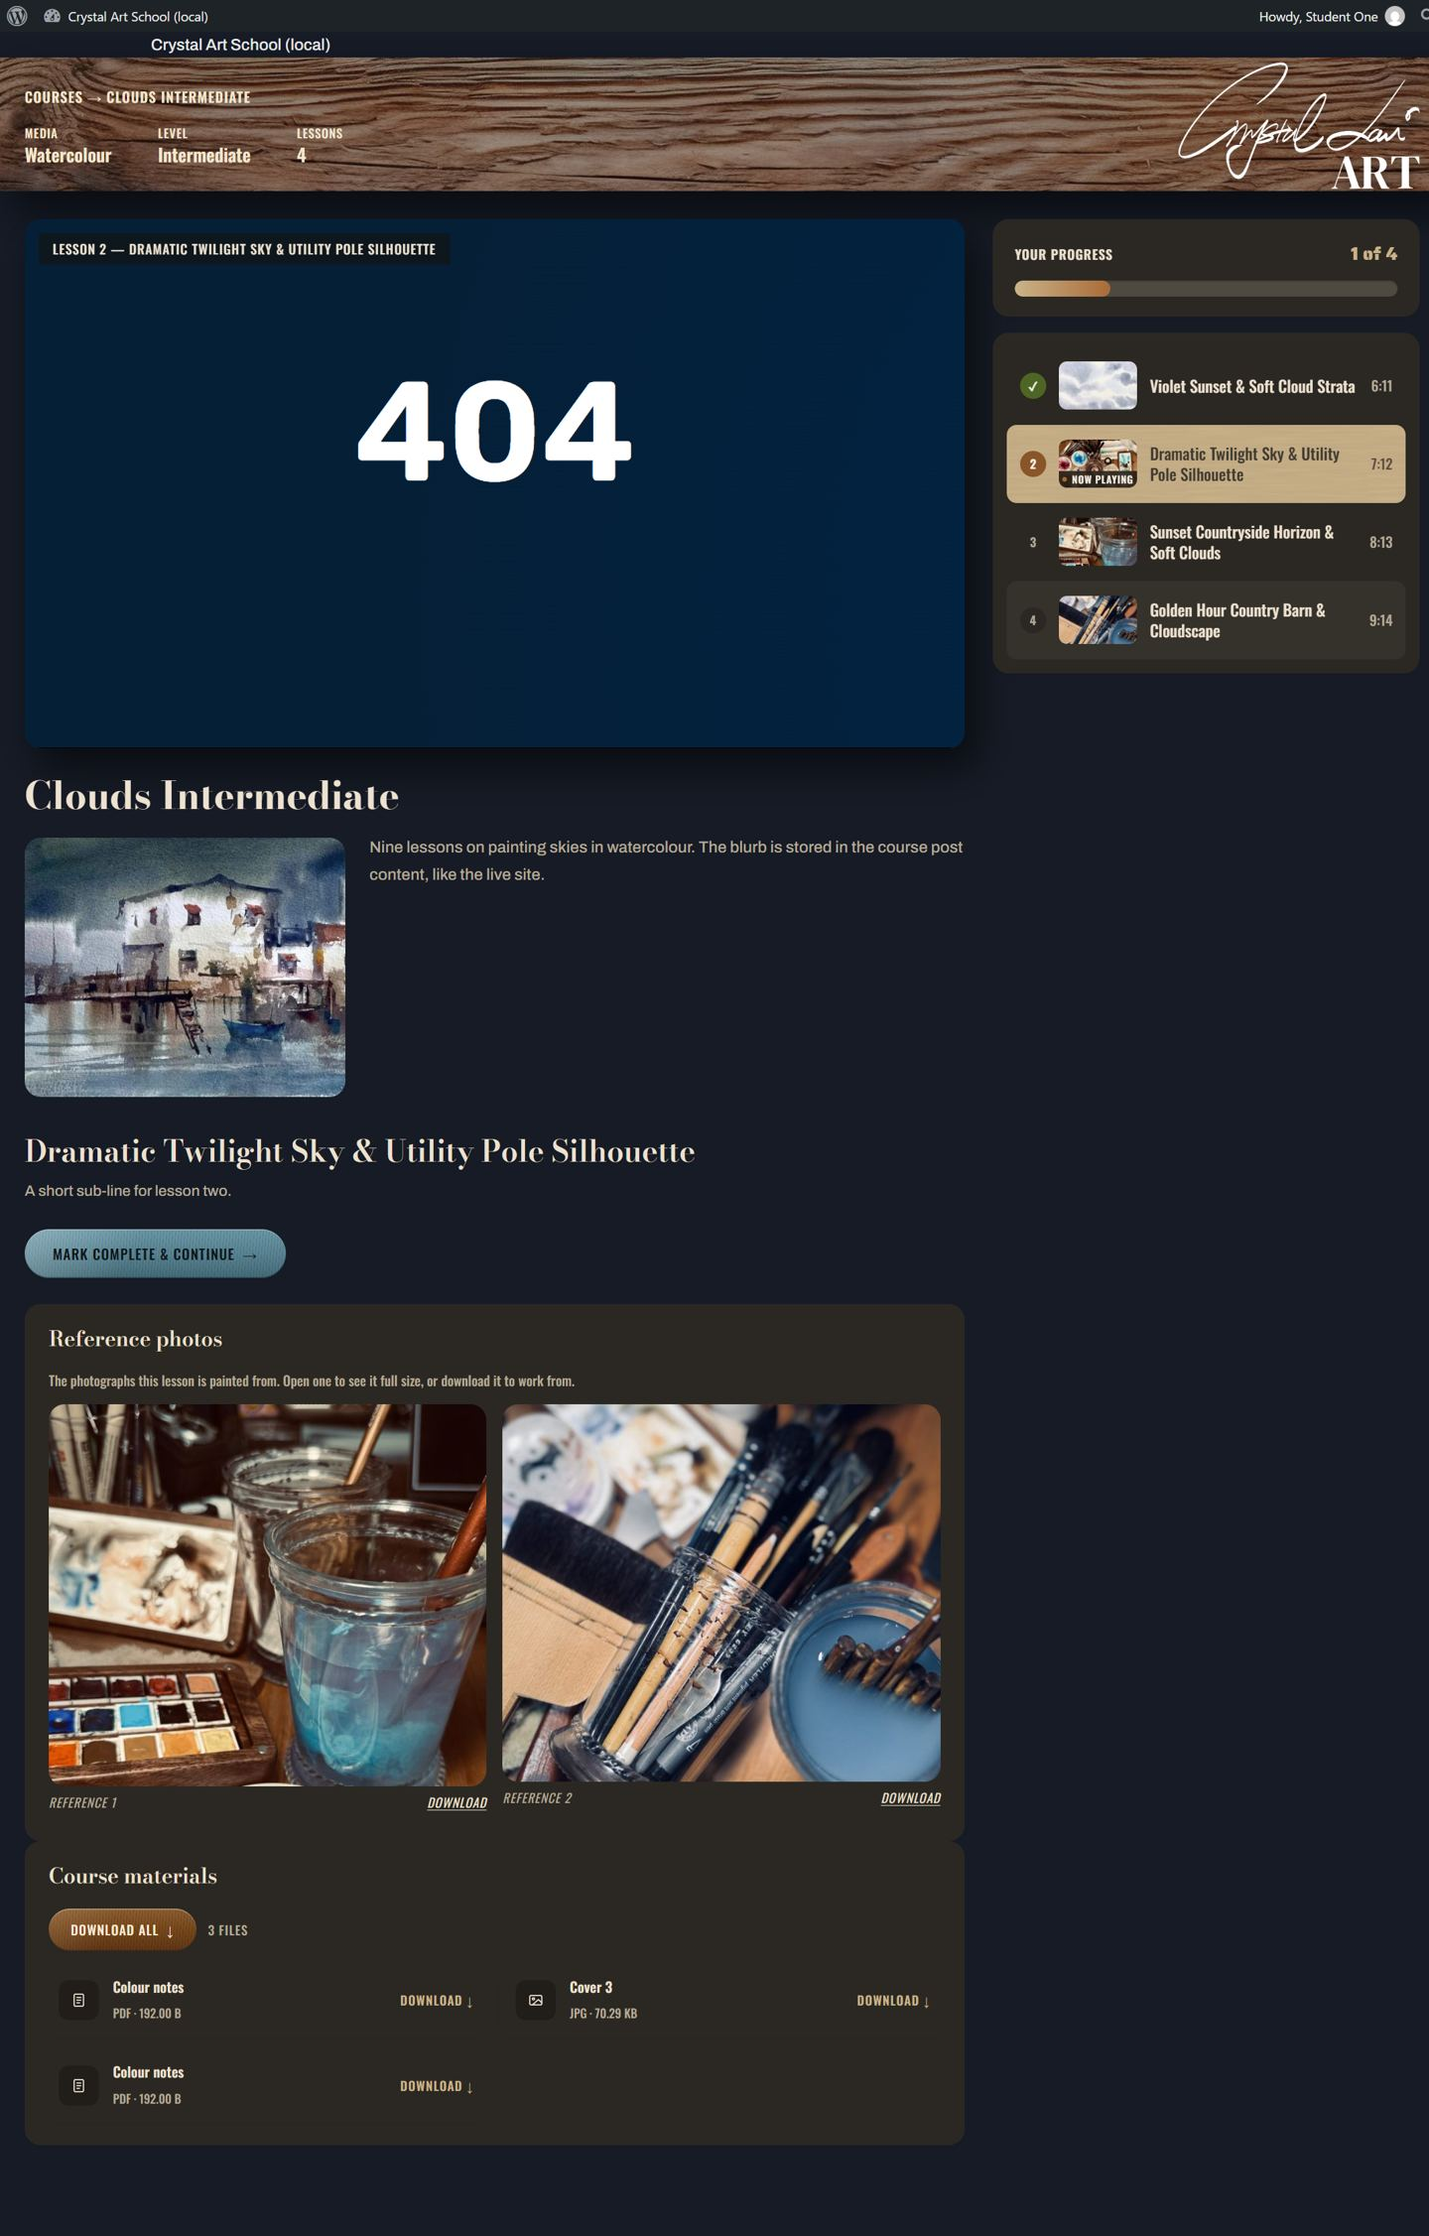
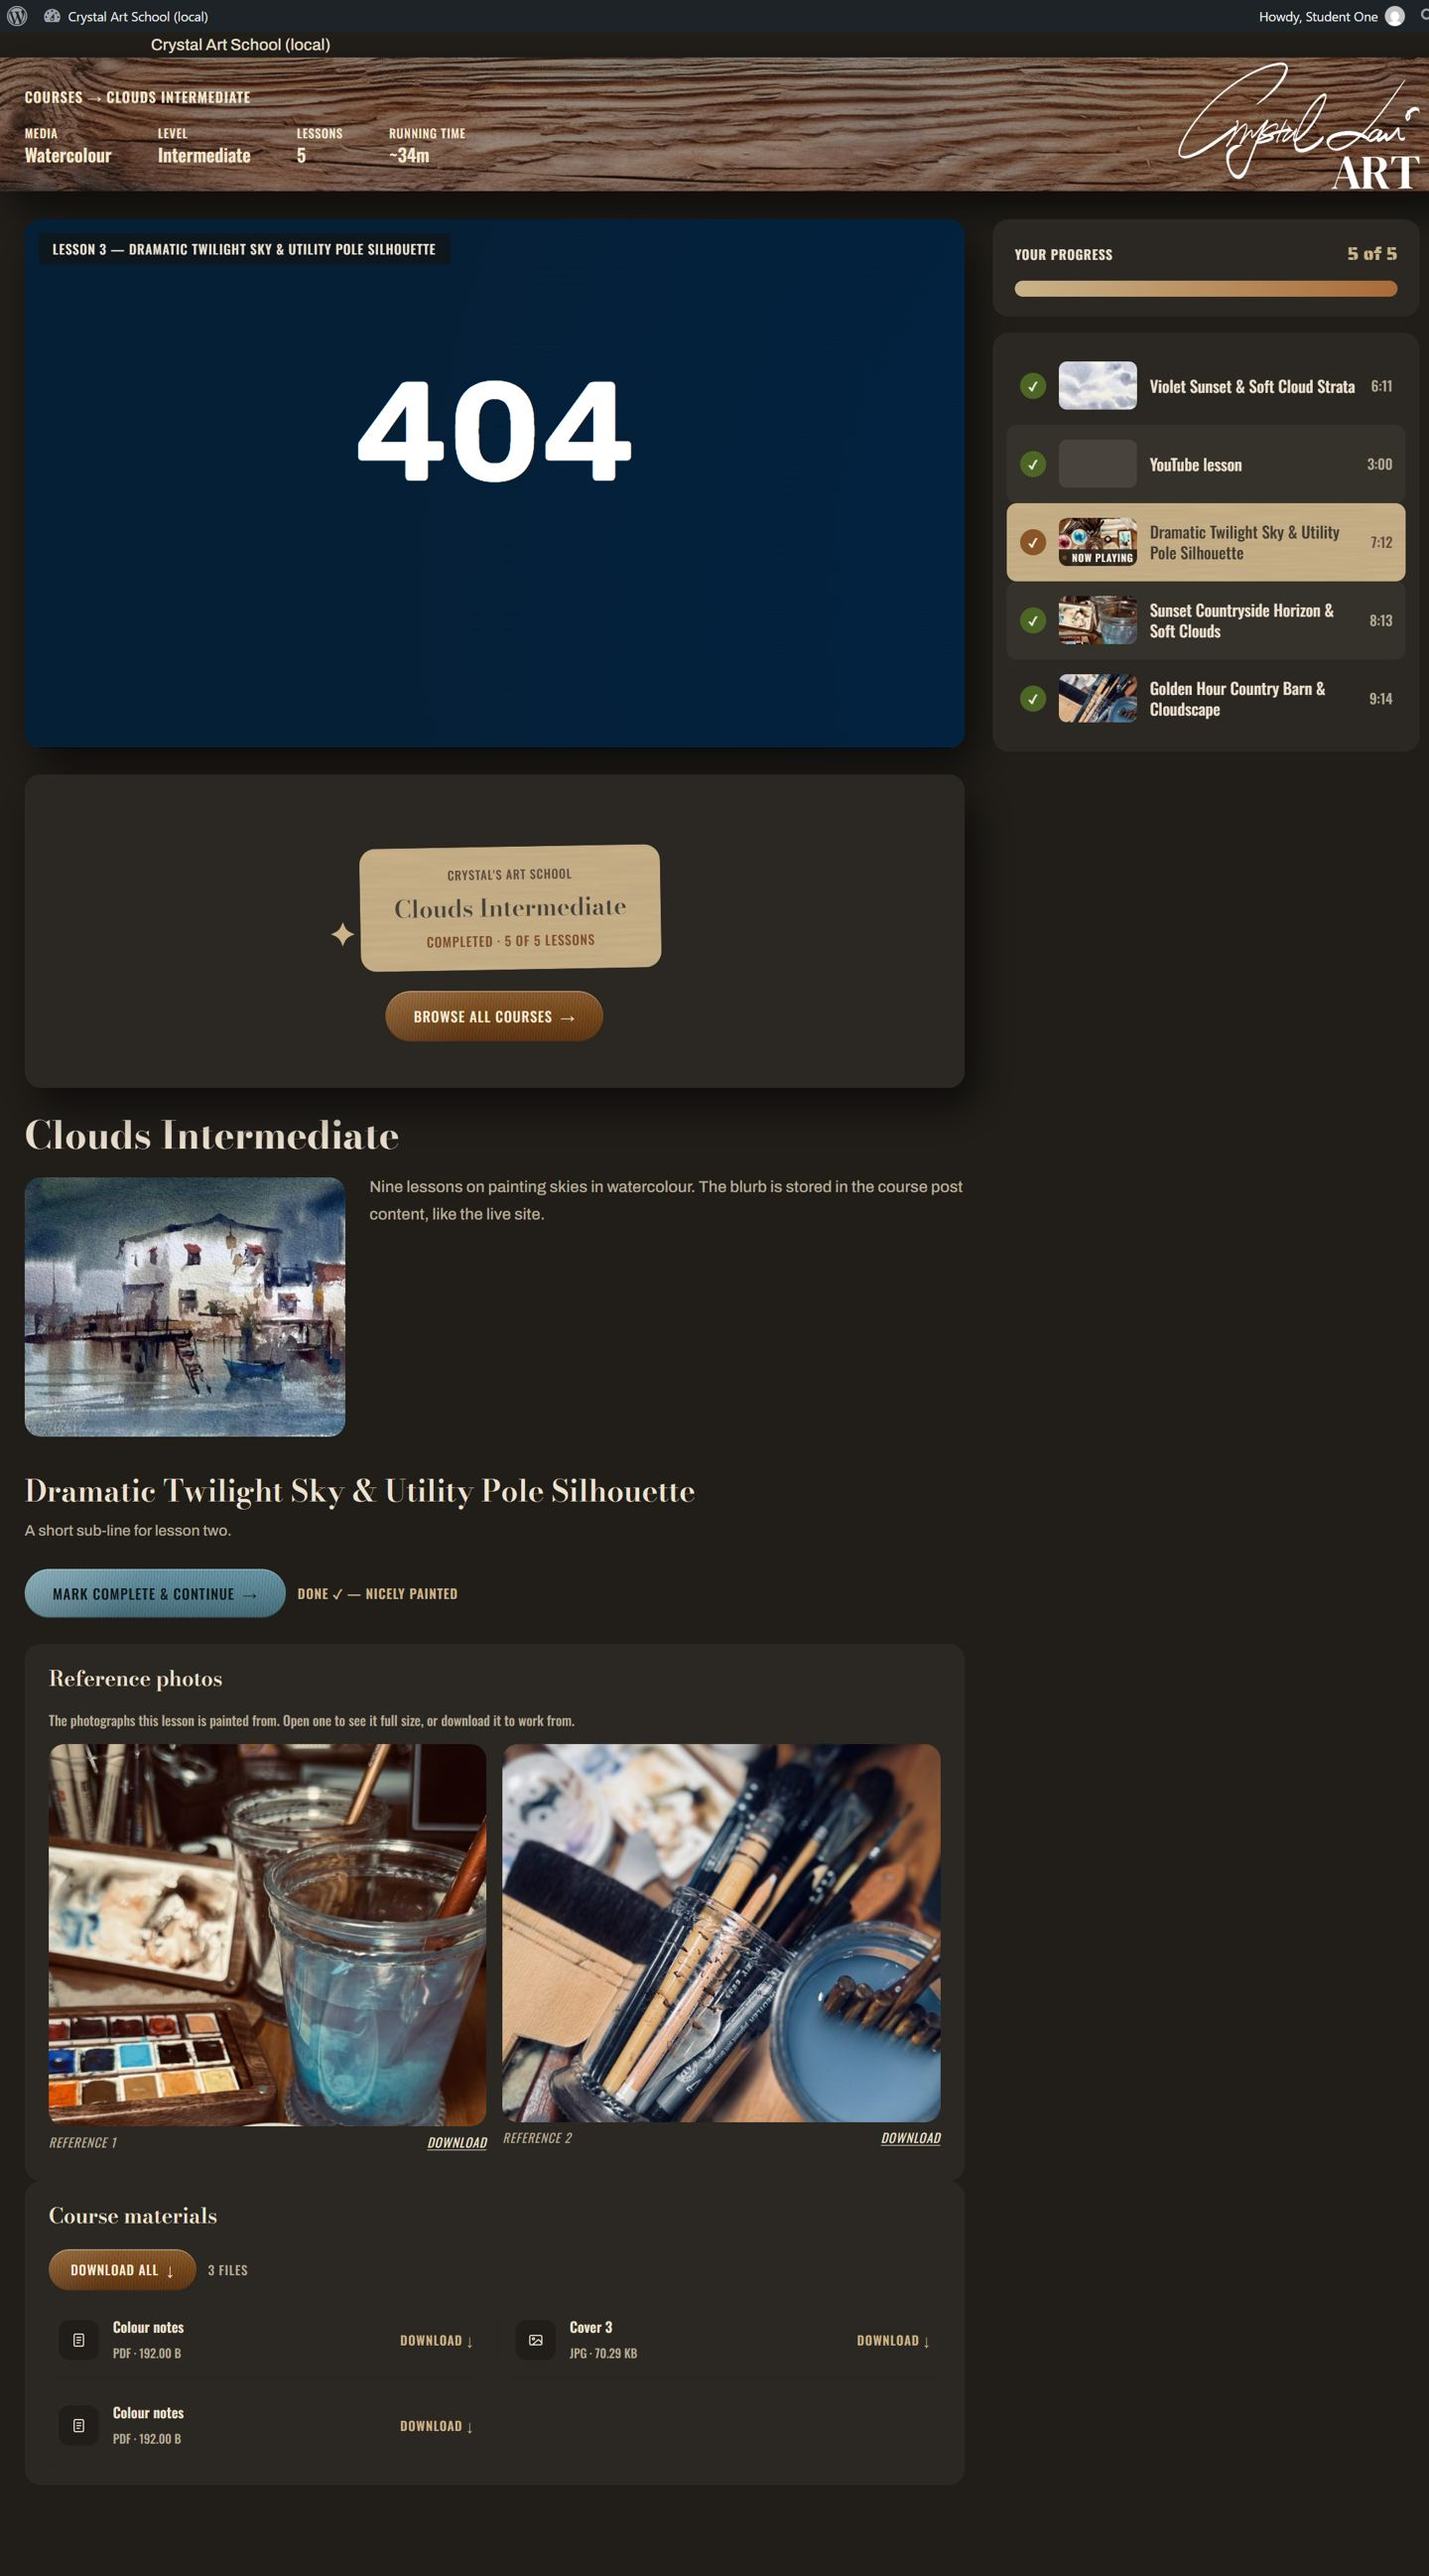
fix(lesson): keep Tutor's dark shell off the page, sum the running time, hide an empty materials card (#122)
- Tutor's core stylesheet sets the body ground to a navy surface colour for every
  learning-area request. On the lesson route Tutor's core and learning-area assets
  are now dequeued, so the site's warm charcoal shows.
- Running time is the sum of the lesson runtimes the outline already shows.
- The Course materials card is hidden when there are no attachments, instead of
  printing an owner-facing placeholder sentence.
- The film iframe drops allowfullscreen (allow="fullscreen" already covers it).

diff --git a/wp-content/themes/hello-elementor-child/inc/cas-lesson.php b/wp-content/themes/hello-elementor-child/inc/cas-lesson.php
@@ -120,6 +120,33 @@ add_filter(
 );
 
 /**
+ * A running time the way the prototype's runtimeStr() writes it: "1h 8m", "1h", "45m".
+ *
+ * The total is the sum of the lesson runtimes the phase list already shows, so the two
+ * cannot disagree. A course whose lessons carry no runtime has no running time to show.
+ *
+ * @param int $seconds Total in seconds.
+ *
+ * @return string
+ */
+function cas_lesson_total_runtime( $seconds ) {
+	$seconds = (int) $seconds;
+
+	if ( $seconds <= 0 ) {
+		return '';
+	}
+
+	$h = (int) floor( $seconds / 3600 );
+	$m = (int) round( ( $seconds % 3600 ) / 60 );
+
+	if ( $h ) {
+		return $m ? $h . 'h ' . $m . 'm' : $h . 'h';
+	}
+
+	return $m . 'm';
+}
+
+/**
  * Print one lesson row's length as m:ss, the way the prototype's fmt0() does.
  *
  * @param int $seconds Length in seconds.
@@ -368,7 +395,7 @@ function cas_render_lesson() {
 	$tag     = ( ! is_wp_error( $cats ) && $cats ) ? $cats[0] : '';
 	$level   = (string) get_post_meta( $course_id, '_tutor_course_level', true );
 	$level   = $level ? ucfirst( str_replace( '-', ' ', $level ) ) : '';
-	$runtime = cas_course_runtime( $course_id );
+	$runtime = cas_lesson_total_runtime( array_sum( array_column( $items, 'seconds' ) ) );
 	$blurb   = trim( (string) get_post_field( 'post_content', $course_id ) );
 	$photos  = cas_course_photos( $course_id );
 	$thumb   = $current ? $current['thumb'] : 0;
@@ -426,7 +453,7 @@ function cas_render_lesson() {
 						}
 						?>
 						<?php if ( $film['src'] ) : ?>
-							<iframe class="gdrive-frame" id="gdrive-frame" title="Lesson video player" src="<?php echo esc_url( $film['src'] ); ?>" allow="autoplay; fullscreen" allowfullscreen loading="lazy"></iframe>
+							<iframe class="gdrive-frame" id="gdrive-frame" title="Lesson video player" src="<?php echo esc_url( $film['src'] ); ?>" allow="autoplay; fullscreen" loading="lazy"></iframe>
 						<?php elseif ( $film['native'] ) : ?>
 							<div class="cas-lesson-native"><?php echo $film['native']; // phpcs:ignore WordPress.Security.EscapeOutput -- Tutor's own player markup. ?></div>
 						<?php endif; ?>
@@ -531,27 +558,25 @@ function cas_render_lesson() {
 					</div>
 				<?php endif; ?>
 
+				<?php if ( $files ) : ?>
 				<div class="curr-card materials-card" id="materials-card">
 					<div class="ch">Course materials</div>
-					<?php if ( $files ) : ?>
-						<div class="res-all" id="res-all">
-							<button class="btn primary" type="button" id="res-all-btn">Download all <span class="arr" aria-hidden="true">&darr;</span></button>
-							<span class="res-all-note"><?php echo esc_html( count( $files ) . ( 1 === count( $files ) ? ' file' : ' files' ) ); ?></span>
-						</div>
-						<div class="res-list" id="res-list" style="padding:0 4px 8px;">
-							<?php foreach ( $files as $file ) : ?>
-								<a class="res-item" download="<?php echo esc_attr( $file->name ); ?>" href="<?php echo esc_url( $file->url ); ?>">
-									<span class="res-ico" aria-hidden="true"><?php echo cas_lesson_file_icon( $file ); // phpcs:ignore WordPress.Security.EscapeOutput -- static markup. ?></span>
-									<span class="res-body"><span class="nm"><?php echo esc_html( $file->title ); ?></span><br>
-										<span class="sz"><?php echo esc_html( strtoupper( (string) $file->ext ) . ' · ' . $file->size ); ?></span></span>
-									<span class="res-get">Download &darr;</span>
-								</a>
-							<?php endforeach; ?>
-						</div>
-					<?php else : ?>
-						<p class="res-note" id="res-note">Course materials for this course are still to be supplied.</p>
-					<?php endif; ?>
+					<div class="res-all" id="res-all">
+						<button class="btn primary" type="button" id="res-all-btn">Download all <span class="arr" aria-hidden="true">&darr;</span></button>
+						<span class="res-all-note"><?php echo esc_html( count( $files ) . ( 1 === count( $files ) ? ' file' : ' files' ) ); ?></span>
+					</div>
+					<div class="res-list" id="res-list" style="padding:0 4px 8px;">
+						<?php foreach ( $files as $file ) : ?>
+							<a class="res-item" download="<?php echo esc_attr( $file->name ); ?>" href="<?php echo esc_url( $file->url ); ?>">
+								<span class="res-ico" aria-hidden="true"><?php echo cas_lesson_file_icon( $file ); // phpcs:ignore WordPress.Security.EscapeOutput -- static markup. ?></span>
+								<span class="res-body"><span class="nm"><?php echo esc_html( $file->title ); ?></span><br>
+									<span class="sz"><?php echo esc_html( strtoupper( (string) $file->ext ) . ' · ' . $file->size ); ?></span></span>
+								<span class="res-get">Download &darr;</span>
+							</a>
+						<?php endforeach; ?>
+					</div>
 				</div>
+				<?php endif; ?>
 			</div>
 
 			<aside class="side-stick">
@@ -665,4 +690,32 @@ add_action(
 		wp_enqueue_script( 'cas-lesson', $uri . '/js/cas-lesson.js', array( 'cas-site-extras' ), filemtime( $dir . '/js/cas-lesson.js' ), true );
 	},
 	27
+);
+
+/**
+ * Tutor's learning-area stylesheet and script are not wanted on a lesson this file renders.
+ *
+ * Tutor enqueues its core and learning-area CSS for every learning-area request, and the
+ * core sheet sets `body { background-color: var(--tutor-surface-base) }` — in dark mode a
+ * navy ground that paints over the site's warm charcoal. The page is built from the site's
+ * own classes, so none of Tutor's learning-area styling or script has anything to act on.
+ * Dropped late (after Tutor's own enqueue) and only on this route: a quiz or any other
+ * learning-area screen still gets Tutor's assets.
+ */
+add_action(
+	'wp_enqueue_scripts',
+	function () {
+		if ( ! cas_lesson_is_ours() ) {
+			return;
+		}
+
+		foreach ( array( 'tutor-core', 'tutor-learning', 'tutor-google-fonts', 'tutor-kids' ) as $handle ) {
+			wp_dequeue_style( $handle );
+		}
+
+		foreach ( array( 'tutor-core', 'tutor-learning' ) as $handle ) {
+			wp_dequeue_script( $handle );
+		}
+	},
+	100
 );

diff --git a/tests/test_lesson_page_contract.py b/tests/test_lesson_page_contract.py
@@ -49,6 +49,12 @@ def main() -> None:
     require(lesson, "cas_video_sign_url( $src )", "embed address must pass through cas_video_sign_url")
     require(lesson, "tutor_lesson_video( false )", "non-embed sources must keep Tutor's own player")
 
+    # Tutor's dark learning-area shell must not paint over the page, only on this route.
+    require(lesson, "foreach ( array( 'tutor-core', 'tutor-learning', 'tutor-google-fonts', 'tutor-kids' ) as $handle )", "Tutor's core and learning-area styles must be dropped on the lesson route")
+    require(lesson, "cas_lesson_total_runtime( array_sum( array_column( $items, 'seconds' ) ) )", "running time must be the sum of the lesson runtimes")
+    require(lesson, "<?php if ( $files ) : ?>\n\t\t\t\t<div class=\"curr-card materials-card\" id=\"materials-card\">", "the materials card must be hidden when there are no files")
+    forbid(lesson, "still to be supplied", "owner-facing placeholder copy must not reach a student")
+
     # Nothing from the prototype's demo copy is invented.
     code = re.sub(r"/\*.*?\*/", "", lesson, flags=re.S)  # the docblocks explain what was left out
     for demo in ("Taught by", "Take it slowly", "Share your skies", "You painted the whole sky"):

diff --git a/docs/validation/2026-09-30-lesson-page-parity-122/README.md b/docs/validation/2026-09-30-lesson-page-parity-122/README.md
@@ -23,6 +23,8 @@ the route `inc/cas-course-single.php` already takes for the single course. It do
 and a forked copy would go stale with every Tutor release. A visitor Tutor would refuse, a
 `?subpage=` request, or any other post type falls through to Tutor untouched.
 
+Tutor's core and learning-area stylesheets and scripts are dequeued on this route only. Tutor's core sheet sets `body { background-color: var(--tutor-surface-base) }`, a navy ground in dark mode that painted over the site's warm charcoal; it is not a local-only effect. A quiz or any other learning-area screen still gets Tutor's assets.
+
 Access is Tutor's own `CourseModel::has_course_content_access()`. Completion is Tutor's own form
 post (`tutor_action=tutor_complete_lesson`, with its nonce); a following hook moves on to the next
 lesson, only after Tutor's handler has finished.
@@ -32,7 +34,7 @@ lesson, only after Tutor's handler has finished.
 | Prototype | Bound to |
 |---|---|
 | Crumbs, course link | course archive, course permalink, course title |
-| Meta row: Media, Level, Lessons, Running time | first course category, `_tutor_course_level`, lesson count, `cas_course_runtime()` |
+| Meta row: Media, Level, Lessons, Running time | first course category, `_tutor_course_level`, lesson count, the sum of the lesson runtimes the phase list shows (written like the prototype's `runtimeStr()`, for example `~1h 8m`; left out when no lesson has a runtime) |
 | Stage poster | the lesson's featured image |
 | Stage player | the film's address from the lesson's `_video` embed, passed through `cas_video_sign_url()`; other sources keep Tutor's player |
 | Lesson flag | "Lesson N — title" from the lesson order and title |
@@ -40,7 +42,7 @@ lesson, only after Tutor's handler has finished.
 | Phase eyebrow, lesson title, sub-line | topic title (only when the course has more than one topic), lesson title, lesson post content |
 | Mark complete & continue | Tutor's completion form |
 | Reference photos | the lesson's image attachments |
-| Course materials | the course's attachments plus the lesson's non-image attachments |
+| Course materials | the course's attachments plus the lesson's non-image attachments; the whole card is hidden when there are none |
 | Your progress, n of N, bar | `get_course_completed_percent()` counts |
 | Phase list rows | topics and lessons, with featured image, runtime, done and current state |
 
@@ -55,6 +57,7 @@ lesson, only after Tutor's handler has finished.
 | Course films card, multi-part lessons | Tutor holds no data for them |
 | Portrait pillarboxing of the film | Tutor stores no orientation |
 | Source notes about Google Drive | not applicable to the video host |
+| "Course materials ... still to be supplied" sentence | owner-facing placeholder; the card is hidden instead |
 
 ## One deviation from the prototype
 
@@ -83,6 +86,8 @@ The tour is not new in 4.1.0; it is present in 4.0.7.
 | `?subpage=course-info` | Tutor's own page |
 | Lesson with a YouTube source | Tutor's player fills the stage |
 | Tour override | child template path, 0 bytes of output |
+| Page ground | `body` is `rgb(33, 30, 26)` (warm charcoal); no Tutor stylesheet is loaded on the route |
+| Running time | 6:11 + 3:00 + 7:12 + 8:13 + 9:14 shows `~34m` |
 | `tests/test_lesson_page_contract.py` | passes; fails when the signed-address call is removed |
 | Existing contract tests | all pass |
 
